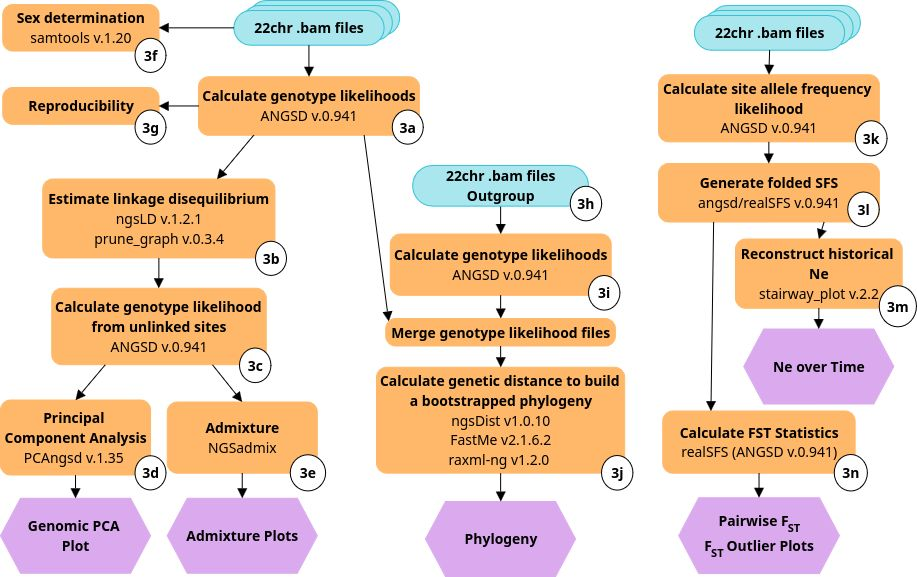
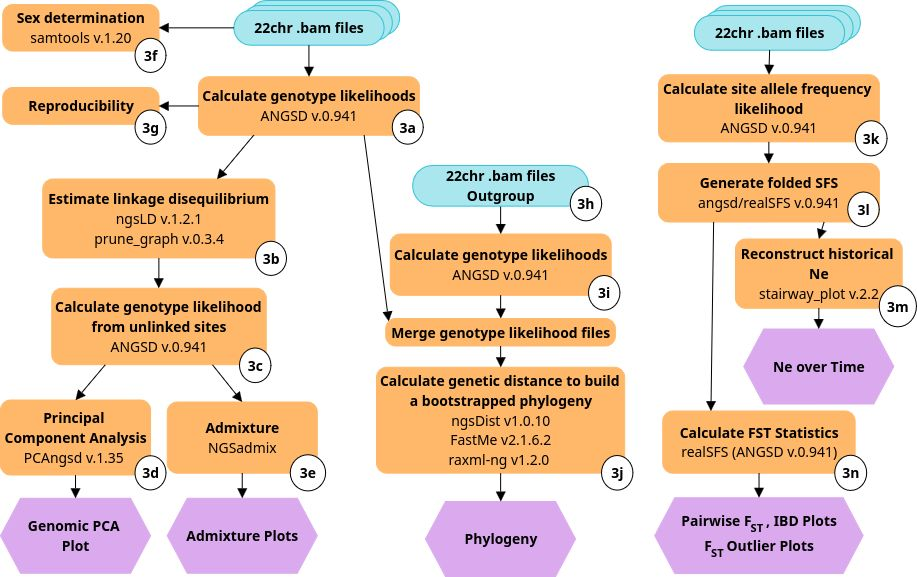
Update to add IBD analyses

Changed region(s): [[0.7023, 0.8423, 0.9466, 0.9983], [0.916, 0.7799, 0.9466, 0.8111]]

diff --git a/scripts/3n_pairwise_fst.md b/scripts/3n_pairwise_fst.md
@@ -67,3 +67,141 @@ bedtools intersect -wa -a GCF_016920845.1_GAculeatus_UGA_version5_genomic.gtf -b
 
 bedtools intersect -wa -a GCF_016920845.1_GAculeatus_UGA_version5_genomic.gtf -b mainland_cb_outliers.bed > mainland_cb_outliers_genes_nowindow
 ```
+
+# Include Pairwise FST or IBD analyses #
+
+```{bash}
+realSFS common_hrm_merged.saf.idx common_cb_merged.saf.idx -P 12 > hrm.cb.ml
+realSFS common_southshore_merged.saf.idx common_cb_merged.saf.idx -P 12 > shouthshore.cb.ml
+realSFS common_northumberland_merged.saf.idx common_cb_merged.saf.idx -P 12 > northumberland.cb.ml
+realSFS common_bof_merged.saf.idx common_cb_merged.saf.idx -P 12 > bof.cb.ml
+realSFS common_southshore_merged.saf.idx common_bof_merged.saf.idx -P 12 > southshore.bof.ml
+realSFS common_hrm_merged.saf.idx common_bof_merged.saf.idx -P 12 > hrm.bof.ml
+realSFS common_northumberland_merged.saf.idx common_bof_merged.saf.idx -P 12 > northumberland.bof.ml
+realSFS common_hrm_merged.saf.idx common_southshore_merged.saf.idx -P 12 > hrm.southshore.ml
+realSFS common_nothumberland_merged.saf.idx common_southshore_merged.saf.idx -P 12 > northumberland.southshore.ml
+realSFS common_hrm_merged.saf.idx common_northumberland_merged.saf.idx -P 12 > hrm.northumberland.ml
+
+realSFS fst index common_hrm_merged.saf.idx common_northumberland_merged.saf.idx -fstout hrm.northumberland.ceu -sfs hrm.northumberland.ml -P 20
+realSFS fst stats hrm.northumberland.ceu.fst.idx > hrm_northumberland_fst
+
+realSFS fst index common_hrm_merged.saf.idx common_southshore_merged.saf.idx -fstout hrm.southshore.ceu -sfs hrm.southshore.ml -P 20
+realSFS fst stats hrm.southshore.ceu.fst.idx > hrm_southshore_fst
+
+realSFS fst index common_northumberland_merged.saf.idx common_cb_merged.saf.idx -fstout northumberland.cb.ceu -sfs northumberland.cb.ml -P 20
+realSFS fst stats northumberland.cb.ceu.fst.idx > northumberland_cb_fst
+
+realSFS fst index common_northumberland_merged.saf.idx common_bof_merged.saf.idx -fstout northumberland.bof.ceu -sfs northumberland.bof.ml -P 20
+realSFS fst stats northumberland.bof.ceu.fst.idx > northumberland_bof_fst
+
+realSFS fst index common_hrm_merged.saf.idx common_bof_merged.saf.idx -fstout hrm.bof.ceu -sfs hrm.bof.ml -P 20
+realSFS fst stats hrm.bof.ceu.fst.idx > hrm_bof_fst
+
+realSFS fst index common_southshore_merged.saf.idx common_bof_merged.saf.idx -fstout southshore.bof.ceu -sfs southshore.bof.ml -P 20
+realSFS fst stats southshore.bof.ceu.fst.idx > southshore_bof_fst
+
+realSFS fst index common_bof_merged.saf.idx common_cb_merged.saf.idx -fstout bof.cb.ceu -sfs bof.cb.ml -P 20
+realSFS fst stats bof.cb.ceu.fst.idx > bof_cb_fst
+
+realSFS fst index common_southshore_merged.saf.idx common_cb_merged.saf.idx -fstout southshore.cb.ceu -sfs southshore.cb.ml -P 20
+realSFS fst stats southshore.cb.ceu.fst.idx > southshore_cb_fst
+```
+
+We used the genetic distance calculated above and created a distance matrix. This was combined with Structure Results from the microsatellites in R.
+
+```{R}
+white_genind_obj <- read.structure("whites_locPheno.str", n.ind = 344, n.loc = 43, onerowperind = FALSE, ask = FALSE, col.lab = 1, col.pop = 2, NA.char = "-9")
+
+white_hierfstat_obj <- genind2hierfstat(white_genind_obj)
+white_fst <- pairwise.WCfst(white_hierfstat_obj)
+linearized_white_fst <- white_fst / (1 - white_fst)
+
+common_genind_obj <- read.structure("common_locPheno.str", n.ind = 749, n.loc = 43, onerowperind = FALSE, ask = FALSE, col.lab = 1, col.pop = 2, NA.char = "-9")
+
+common_hierfstat_obj <- genind2hierfstat(common_genind_obj)
+common_fst <- pairwise.WCfst(common_hierfstat_obj)
+linearized_common_fst <- common_fst / (1 - common_fst)
+```
+
+```{r}
+# importing distance matrix
+library(vegan)
+
+distance_table <- read.table("common_usat_distancemat.csv", header = TRUE, row.names = 1, sep = ",")
+
+white_distance_table <- read.table("white_usat_distancemat.csv", header = TRUE, row.names = 1, sep = ",")
+
+lcwgs_distance_table <- read.table("lcwgs_distancemat.csv", header = TRUE, row.names = 1, sep = ",")
+
+##Common with usats
+common_fst_edit <- as.dist(linearized_common_fst)
+distance_table_edit <- as.dist(distance_table)
+vegan::mantel(as.dist(linearized_common_fst), as.dist(distance_table))
+
+##White with usats
+white_fst_edit <- as.dist(linearized_white_fst)
+white_distance_table_edit <- as.dist(white_distance_table)
+vegan::mantel(as.dist(linearized_white_fst), as.dist(white_distance_table))
+
+##lcwgs
+
+lcwgs_fst <- read.table("pairwise_fst_lcwgs.csv", header = TRUE, row.names = 1, sep = ",")
+linearized_lcwgs_fst <- lcwgs_fst / (1 - lcwgs_fst)
+
+vegan::mantel(as.dist(linearized_lcwgs_fst), as.dist(lcwgs_distance_table))
+lcwgs_fst_edit <- as.dist(linearized_lcwgs_fst)
+lcwgs_distance_table_edit <- as.dist(lcwgs_distance_table)
+```
+
+Estimate minomum marine distance
+
+```{R}
+source("https://raw.githubusercontent.com/jorgeassis/marineDistances/master/Script.R")
+
+global.polygon <- "GSHHS_l_L1.shp"
+
+data_points <- sample_locations_wgs %>%
+  select(name, latitude, longitude) %>%
+  filter(name %in% c("Baddeck", "Rainbow Haven", "L'Hebert", "Gaspereau River", "Cross Road Bridge"))
+         
+data_points <- rbind(data_points, c("Northumberland", 45.78396, -62.80218))
+
+#write.csv(data_points,"lcwgs_sample_sites.txt",col.names = FALSE, row.names = FALSE, quote = FALSE)
+
+
+contour( global.polygon = global.polygon , file= "lcwgs_sample_sites.txt" , file.sep = "," , file.dec = "." , file.strucutre = 2 , file.header = FALSE , resolution = 0.01 , buffer = c(5,5,5,5) , export.file = TRUE )
+```
+
+# Calculate IBD #
+
+```{R}
+#Import distance table
+library(dendextend)
+
+long_dist_common <- dist_long(distance_table_edit)
+long_fst_common <- dist_long(common_fst_edit)
+colnames(long_fst_common) <- c("rows","cols", "fst")
+common_data_ibd_plot <- full_join(long_dist_common, long_fst_common)
+
+long_dist_white <- dist_long(white_distance_table_edit)
+long_fst_white <- dist_long(white_fst_edit)
+colnames(long_fst_white) <- c("rows","cols", "fst")
+white_data_ibd_plot <- full_join(long_dist_white, long_fst_white)
+
+long_dist_lcwgs <- dist_long(lcwgs_distance_table_edit)
+long_fst_lcwgs <- dist_long(lcwgs_fst_edit)
+colnames(long_fst_lcwgs) <- c("rows","cols", "fst")
+lcwgs_data_ibd_plot <- full_join(long_dist_lcwgs, long_fst_lcwgs)
+
+IBD_plot <- ggplot() +
+  geom_point(aes(common_data_ibd_plot$distance, common_data_ibd_plot$fst), pch=1, colour = "purple4")+
+  geom_smooth(aes(common_data_ibd_plot$distance, common_data_ibd_plot$fst), method = "lm", se = TRUE, colour = "purple4", fill = "purple4") +
+  geom_point(aes(white_data_ibd_plot$distance, white_data_ibd_plot$fst), pch=2, colour = "goldenrod") +
+  geom_smooth(aes(white_data_ibd_plot$distance, white_data_ibd_plot$fst), method = "lm", se = TRUE, colour = "goldenrod", fill = "goldenrod") +
+  geom_point(aes(lcwgs_data_ibd_plot$distance, lcwgs_data_ibd_plot$fst), pch=19) +
+  geom_smooth(aes(lcwgs_data_ibd_plot$distance, lcwgs_data_ibd_plot$fst), method = "lm", se = TRUE, colour = "black") +
+  xlab("Geographic Distance (km)") +
+  ylab(expression(Linearized~F[ST])) +
+  theme_bw()
+
+```

diff --git a/README.md b/README.md
@@ -30,7 +30,7 @@ This repository is still in development as the analyses continue.
 - *3k_angsd_SAF.md*	Calculate site allele frequency likelihoods 
 - *3l_generating_SFS.md*	Estimate the SFS  
 - *3m_running_stairwayplot.md*	Running Stairway Plot  
-- *3n_pairwise_fst.md*	Calculating pairwise FST
+- *3n_pairwise_fst.md*	Calculating pairwise FST and IBD
 
 ![Data_prep](https://github.com/carlacrossman/NS_stickleback_genomics/blob/main/Stickleback_data_prep.jpg)
   

diff --git a/scripts/README.md b/scripts/README.md
@@ -30,7 +30,7 @@ This repository is still in development as the analyses continue.
 - *3k_angsd_SAF.md*	Calculate site allele frequency likelihoods 
 - *3l_generating_SFS.md*	Estimate the SFS  
 - *3m_running_stairwayplot.md*	Running Stairway Plot  
-- *3n_pairwise_fst.md*	Calculating pairwise FST
+- *3n_pairwise_fst.md*	Calculating pairwise FST and IBD
 
 ![Data_prep](https://github.com/carlacrossman/NS_stickleback_genomics/blob/main/Stickleback_data_prep.jpg)
   
